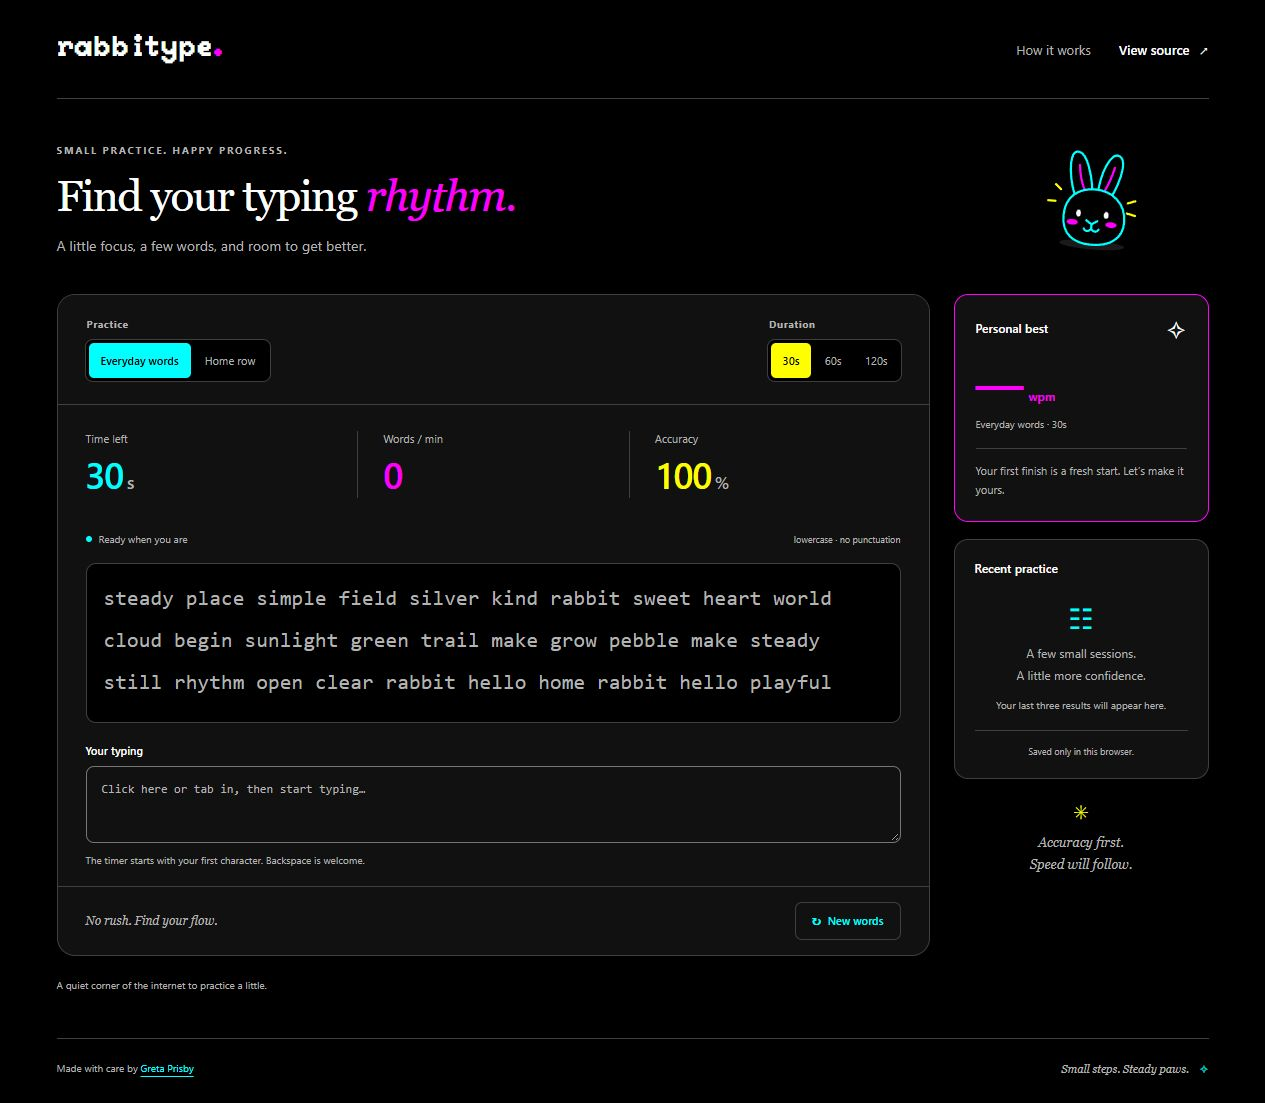
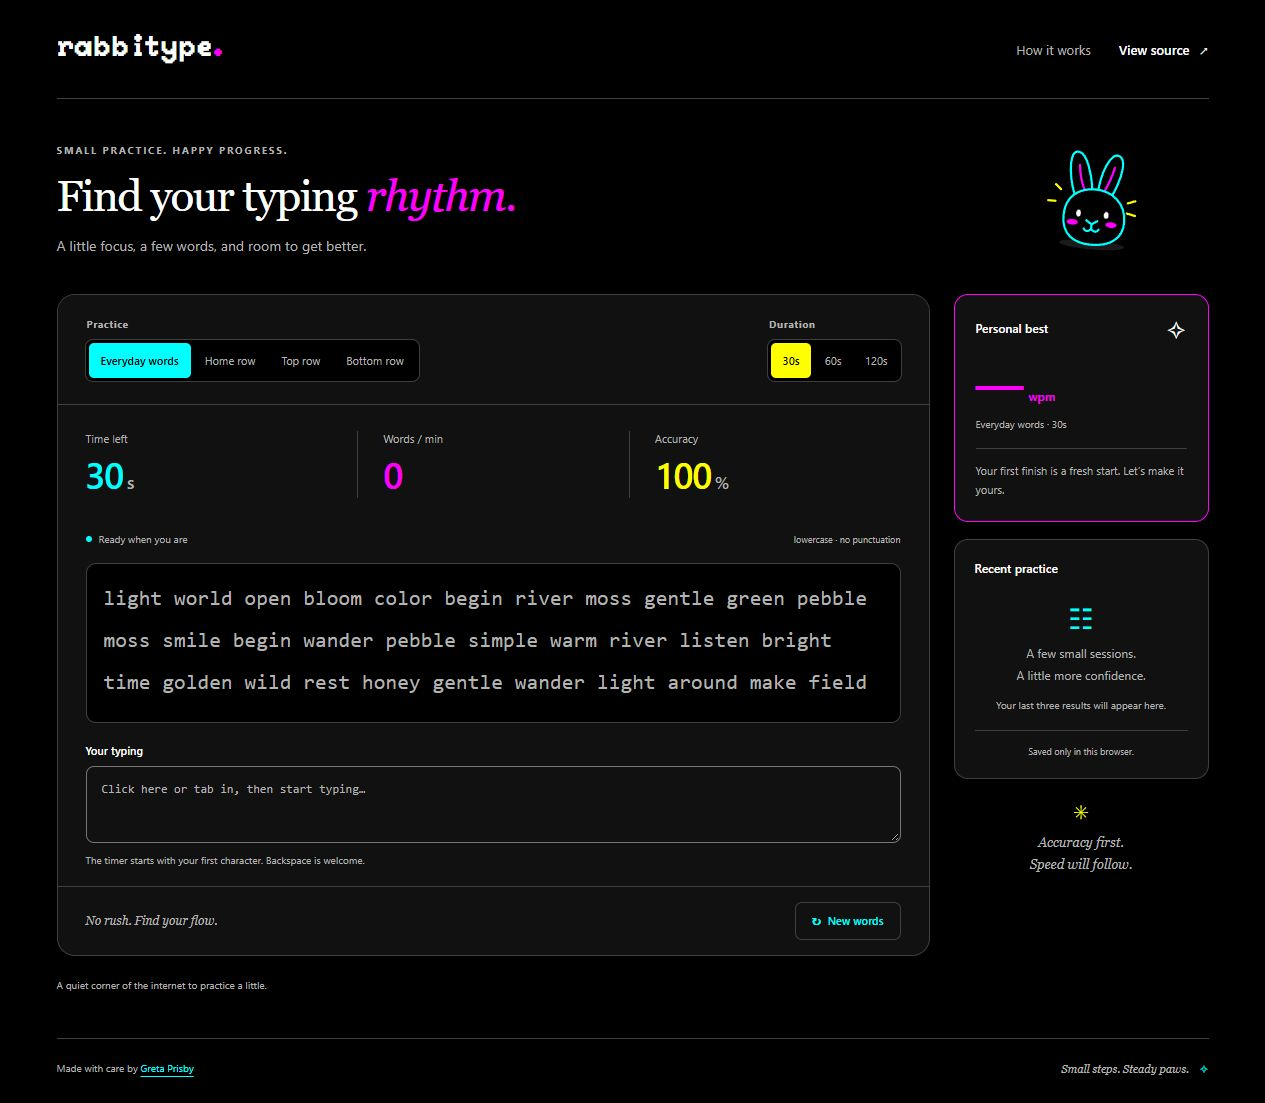
Add top and bottom keyboard row practice modes

Changed region(s): [[0.0925, 0.524, 0.6783, 0.6473], [0.2775, 0.3083, 0.3083, 0.3391]]

diff --git a/src/App.tsx b/src/App.tsx
@@ -16,7 +16,15 @@ const DEFAULT_SETTINGS: Settings = { mode: 'words', duration: 30 };
 const MODES: { value: Mode; label: string }[] = [
   { value: 'words', label: 'Everyday words' },
   { value: 'home-row', label: 'Home row' },
+  { value: 'top-row', label: 'Top row' },
+  { value: 'bottom-row', label: 'Bottom row' },
 ];
+const MODE_CAPTIONS: Record<Mode, string> = {
+  words: 'lowercase · no punctuation',
+  'home-row': 'a s d f g · h j k l',
+  'top-row': 'q w e r t · y u i o p',
+  'bottom-row': 'z x c v · b n m',
+};
 const DURATIONS: Duration[] = [30, 60, 120];
 const modeName = (mode: Mode) => MODES.find((item) => item.value === mode)!.label;
 const freshSession = (settings: Settings) =>
@@ -136,7 +144,7 @@ export default function App() {
             <div className="settings">
               <fieldset disabled={locked}>
                 <legend>Practice</legend>
-                <div className="segmented">
+                <div className="segmented modes">
                   {MODES.map((mode) => (
                     <label key={mode.value}>
                       <input
@@ -232,15 +240,11 @@ export default function App() {
                   <div className="session-status">
                     <span className={`status-dot ${phase}`} aria-hidden="true" />
                     {phase === 'running'
-                      ? 'One word at a time'
+                      ? 'One key at a time'
                       : phase === 'paused'
                         ? 'Take a breath. We’ll wait.'
                         : 'Ready when you are'}
-                    <span className="mode-caption">
-                      {settings.mode === 'home-row'
-                        ? 'a s d f · j k l'
-                        : 'lowercase · no punctuation'}
-                    </span>
+                    <span className="mode-caption">{MODE_CAPTIONS[settings.mode]}</span>
                   </div>
                   <div className={`passage-frame ${phase === 'paused' ? 'is-paused' : ''}`}>
                     <Passage text={session.passage} value={session.value} />
@@ -257,7 +261,7 @@ export default function App() {
                     Your typing
                   </label>
                   <p className="sr-only" id="passage-description">
-                    Type these words in order: {session.passage}
+                    Type this text in order: {session.passage}
                   </p>
                   <textarea
                     id="typing-input"
@@ -330,7 +334,11 @@ export default function App() {
                     )}
                     <button className="button secondary" onClick={startAgain}>
                       <span aria-hidden="true">↻</span>{' '}
-                      {phase === 'ready' ? 'New words' : 'Restart'}
+                      {phase === 'ready'
+                        ? settings.mode === 'bottom-row'
+                          ? 'New patterns'
+                          : 'New words'
+                        : 'Restart'}
                     </button>
                   </div>
                 </div>
@@ -427,7 +435,7 @@ export default function App() {
         <p className="eyebrow">A LITTLE TYPING PRACTICE</p>
         <h2 id="about-title">Find a comfortable pace.</h2>
         <p>
-          Choose everyday words or home row practice, then type the displayed words in the box. The
+          Choose everyday words or a keyboard row, then type the displayed text in the box. The
           timer starts with your first character.
         </p>
         <dl>

diff --git a/src/passages.ts b/src/passages.ts
@@ -1,4 +1,4 @@
-import type { Settings } from './session';
+import type { Mode, Settings } from './session';
 
 const WORDS =
   'rabbit meadow little garden morning quiet window gentle paper pencil color story wonder silver cloud light forest river wander listen bloom golden leaves honey velvet dream sunlight book moss soft trail acorn lantern moon pebble wild cozy drift shade steady playful bright find make grow time small warm open kind still green lift sweet rest walk learn smile begin hello today place world calm field heart home fresh rhythm around together simple clear'.split(
@@ -8,9 +8,24 @@ const HOME_ROW =
   'as sad lad lads salad salads flask flasks fall falls lass half hall halls ash dash ask glass glad flag flags add dad has had all shall'.split(
     ' ',
   );
+const TOP_ROW =
+  'we were you your our out to too two try retry type writer typewriter quiet quite quote query queue power tower upper outer route wire tire trip ripe rope pore pour pure peer pier pie poet poetry pepper poppy puppy pretty proper property require'.split(
+    ' ',
+  );
+// The bottom letter row has no vowels, so use short key drills instead of words.
+const BOTTOM_ROW =
+  'zx xc cv vb bn nm mz xz vc bv nb mn zxc xcv cvb vbn bnm mnb nbv bvc vcx cxz zxcv xcvb cvbn vbnm mnbv nbvc bvcx vcxz zxcvb xcvbn cvbnm mnbvc nbvcx bvcxz'.split(
+    ' ',
+  );
+const WORD_BANKS: Record<Mode, string[]> = {
+  words: WORDS,
+  'home-row': HOME_ROW,
+  'top-row': TOP_ROW,
+  'bottom-row': BOTTOM_ROW,
+};
 
 export function generatePassage(settings: Settings, random = Math.random): string {
-  const bank = settings.mode === 'home-row' ? HOME_ROW : WORDS;
+  const bank = WORD_BANKS[settings.mode];
   const words: string[] = [];
   for (let index = 0; index < settings.duration * 6; index++) {
     let pick = Math.min(bank.length - 1, Math.floor(random() * bank.length));

diff --git a/src/App.test.tsx b/src/App.test.tsx
@@ -19,9 +19,29 @@ describe('the complete practice flow', () => {
     screen.getByRole('radio', { name: 'Everyday words' }).focus();
     await user.keyboard('{ArrowRight}');
     expect(screen.getByRole('radio', { name: 'Home row' })).toBeChecked();
+    await user.keyboard('{ArrowRight}');
+    expect(screen.getByRole('radio', { name: 'Top row' })).toBeChecked();
+    await user.keyboard('{ArrowRight}');
+    expect(screen.getByRole('radio', { name: 'Bottom row' })).toBeChecked();
     await user.click(screen.getByRole('radio', { name: '60s' }));
     expect(screen.getByRole('radio', { name: '60s' })).toBeChecked();
     expect(screen.getByRole('textbox', { name: 'Your typing' })).toHaveValue('');
+  });
+
+  it.each([
+    { label: 'Top row', mode: 'top-row', allowed: /^[qwertyuiop ]+$/ },
+    { label: 'Bottom row', mode: 'bottom-row', allowed: /^[zxcvbnm ]+$/ },
+  ])('completes and saves a $label session', ({ label, mode, allowed }) => {
+    const { container } = render(<App />);
+    fireEvent.click(screen.getByRole('radio', { name: label }));
+    const passage = container.querySelector('.passage')!.textContent!;
+    expect(passage).toMatch(allowed);
+    fireEvent.change(screen.getByRole('textbox'), { target: { value: passage.slice(0, 8) } });
+    expect(screen.getByRole('radio', { name: label })).toBeDisabled();
+    act(() => vi.advanceTimersByTime(30000));
+    expect(screen.getByRole('heading', { name: 'Nicely done.' })).toHaveFocus();
+    expect(readHistory().history.runs[0]).toMatchObject({ mode, accuracy: 100, wpm: 3 });
+    expect(readHistory().history.bests[0]).toMatchObject({ mode, duration: 30 });
   });
 
   it('starts on input, pauses on Escape, and saves a single result under StrictMode', () => {

diff --git a/src/history.test.ts b/src/history.test.ts
@@ -1,4 +1,5 @@
 import { beforeEach, describe, expect, it, vi } from 'vitest';
+import type { Duration, Mode } from './session';
 import {
   readHistory,
   recordRun,
@@ -57,6 +58,22 @@ describe('local progress', () => {
       JSON.stringify({ ...history, runs: [{ ...run(), wpm: -1 }, run()] }),
     );
     expect(readHistory().history.runs).toEqual([run()]);
+  });
+
+  it('preserves all twelve mode and duration bests across reloads', () => {
+    let history = empty();
+    const modes: Mode[] = ['words', 'home-row', 'top-row', 'bottom-row'];
+    const durations: Duration[] = [30, 60, 120];
+    for (const mode of modes) {
+      for (const duration of durations) {
+        history = recordRun(history, run({ id: `${mode}-${duration}`, mode, duration }));
+      }
+    }
+    expect(saveHistory(history)).toBe(true);
+    const restored = readHistory().history;
+    expect(restored.bests).toHaveLength(12);
+    expect(restored.bests).toEqual(history.bests);
+    expect(restored.runs).toEqual(history.runs);
   });
 
   it('recovers from invalid JSON and handles disabled storage', () => {

diff --git a/src/history.ts b/src/history.ts
@@ -21,7 +21,7 @@ function isRun(value: unknown): value is Run {
   const run = value as Record<string, unknown>;
   return (
     typeof run.id === 'string' &&
-    (run.mode === 'words' || run.mode === 'home-row') &&
+    ['words', 'home-row', 'top-row', 'bottom-row'].includes(run.mode as string) &&
     [30, 60, 120].includes(run.duration as number) &&
     typeof run.wpm === 'number' &&
     Number.isFinite(run.wpm) &&
@@ -47,7 +47,7 @@ export function readHistory(): { history: History; available: boolean } {
       history: {
         version: 1,
         runs: parsed.runs.filter(isRun).slice(0, 10),
-        bests: parsed.bests.filter(isRun).slice(0, 6),
+        bests: parsed.bests.filter(isRun).slice(0, 12),
       },
       available: true,
     };

diff --git a/src/passages.test.ts b/src/passages.test.ts
@@ -1,0 +1,16 @@
+import { describe, expect, it } from 'vitest';
+import { generatePassage } from './passages';
+
+describe('keyboard row practice', () => {
+  it.each([
+    { mode: 'home-row' as const, allowed: /^[asdfghjkl ]+$/ },
+    { mode: 'top-row' as const, allowed: /^[qwertyuiop ]+$/ },
+    { mode: 'bottom-row' as const, allowed: /^[zxcvbnm ]+$/ },
+  ])('only includes letters from $mode', ({ mode, allowed }) => {
+    let draw = 0;
+    // Sweep the random range to exercise the whole bank, not one lucky sample.
+    const passage = generatePassage({ mode, duration: 30 }, () => draw++ / 180);
+    expect(passage).toMatch(allowed);
+    expect(new Set(passage.split(' ')).size).toBeGreaterThan(10);
+  });
+});

diff --git a/src/base.css b/src/base.css
@@ -178,6 +178,7 @@ h1 em {
 }
 .settings {
   display: flex;
+  flex-wrap: wrap;
   justify-content: space-between;
   gap: 18px;
   padding: 22px 27px;
@@ -855,6 +856,16 @@ footer > span:last-child > span {
     padding: 17px 16px;
     gap: 12px;
     flex-wrap: wrap;
+  }
+  .settings fieldset:first-child {
+    width: 100%;
+  }
+  .modes {
+    display: grid;
+    grid-template-columns: repeat(2, minmax(0, 1fr));
+  }
+  .modes span {
+    text-align: center;
   }
   .segmented span {
     padding-inline: 10px;

diff --git a/src/session.ts b/src/session.ts
@@ -1,4 +1,4 @@
-export type Mode = 'words' | 'home-row';
+export type Mode = 'words' | 'home-row' | 'top-row' | 'bottom-row';
 export type Duration = 30 | 60 | 120;
 export interface Settings {
   mode: Mode;

diff --git a/README.md b/README.md
@@ -8,7 +8,7 @@ A calm, playful typing practice app. Choose a pace, type a few words, and track 
 
 ## The experience
 
-- Everyday words and home row practice, with 30, 60, or 120 second sessions.
+- Everyday words plus home, top, and bottom row practice, with 30, 60, or 120 second sessions.
 - A timer that starts with the first character and pauses when the tab or window loses focus.
 - Live speed and accuracy, visible mistake feedback, and a prompt that follows your typing.
 - Backspace, pause, resume, and restart controls, followed by a focused results screen.
@@ -76,4 +76,4 @@ The Check workflow runs tests and a production build on pull requests and pushes
 
 ## Practice content
 
-Practice uses a curated English word bank with lowercase text. Everyday words builds general fluency; home row practice focuses on words typed with the middle letter row. Progress is stored locally in your browser.
+Everyday words builds general fluency with lowercase English words. Home row and top row practice use words restricted to those QWERTY keyboard rows. Bottom row practice uses short key sequences for `z x c v b n m`, since that row has no vowels. Each mode has separate personal bests for every duration, stored locally in your browser.
